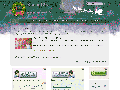
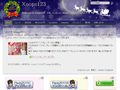
とりあえず２カラム版として完成

diff --git a/html/themes/x-mas/style.css b/html/themes/x-mas/style.css
@@ -105,7 +105,7 @@ h2 a 			{ text-decoration: none;}
 #header-pict h2 ,
 #header-pict h2 a ,
 #header h2 ,
-#header h2 a { font-family: 'Helvetica'; font-size: 18px; padding: 10px 0 0 160px ; color:#b3a1ac;
+#header h2 a { font-family: 'Helvetica'; font-size: 18px; padding: 10px 0 0 100px ; color:#b3a1ac;
 	text-shadow:
 		-1px -1px 1px rgba(0, 0, 0, 0.6),
 		1px 1px 1px rgba(255, 255, 255, 0.6);
@@ -196,7 +196,8 @@ z-index:1000;
 }
 
 /*#main-col div , #sidebar div {*/
-#main-col div h3 , #sidebar div h4 {
+#main-col h3 , #sidebar h3 ,
+#main-col h4 , #sidebar h4 {
 	padding-bottom:10px;
 }
 #sidebar div li {
@@ -212,22 +213,14 @@ z-index:1000;
 	width:100%;
 	max-width:960px;
 }
-#featured	div { 
-	padding: 20px;
-	margin-bottom:15px;
-	line-height: 1.5;
+#featured	h3 {
+	line-height:40px;
+	background:url(images/giftbox04-019.gif) no-repeat ;
+	padding-left:50px;
 }
+
 #latest	{ padding-bottom: 20px; }
-#about	{ padding: 20px 0 20px; }
-#about div {margin-bottom:15px;
-	padding:20px;
-	-webkit-box-shadow: 0px 3px 5px 0px rgba(0,0,0,0.3);
-	-moz-box-shadow: 0px 3px 5px 0px rgba(0,0,0,0.3);
-	box-shadow: 0px 3px 5px 0px rgba(0,0,0,0.3);
-	border-radius: 5px;
-	-webkit-border-radius: 5px;
-	-moz-border-radius: 5px;
-}
+#about {margin-bottom:15px;}
 
 .bg_pink, .bg_green, .bg_blue, .bg_orange ,	.bg_yellow	{
 	margin-bottom:15px;
@@ -255,6 +248,33 @@ z-index:1000;
 .bg_yellow	{
 	background:url(images/bg_yellow.png) ;
 }
+.bg_pink h3	{
+	background:url(images/giftbox03-011.gif) no-repeat ;
+	padding-left:50px;
+}
+.bg_green h3{
+	background:url(images/giftbox03-013.gif) no-repeat ;
+	padding-left:50px;
+}
+.bg_blue h3	{
+	background:url(images/giftbox03-015.gif) no-repeat ;
+	padding-left:50px;
+}
+.bg_orange h3	{
+	background:url(images/giftbox03-012.gif) no-repeat ;
+	padding-left:50px;
+}
+.bg_yellow h3	{
+	background:url(images/giftbox03-014.gif) no-repeat ;
+	padding-left:50px;
+}
+.bg_pink h4	,
+.bg_green h4 ,
+.bg_blue h4	,
+.bg_orange h4	,
+.bg_yellow h4	{
+}
+
 
 #menu_s {
 	text-align:center;
@@ -305,7 +325,7 @@ pre {overflow: auto; font-size: 12px; }
 	margin-left:250px;
 	height:30px;
 	width:202px;
-	z-index:100;
+	z-index:1003;
 }
 #headerSearch-searchform {
 	width: 200px;

diff --git a/html/themes/x-mas/modules.css b/html/themes/x-mas/modules.css
@@ -31,25 +31,28 @@ table.d3f_outer tr.odd {
 		-moz-linear-gradient(-45deg, transparent 75%, rgba(0, 0, 0, 0.05) 75%);
 }
 
-#d3f_post_form_quick table.d3f_postform {
-	width:90%;
-	margin-left: 2em;
+#pageComments {
+	margin-left:-20px;
 }
-#d3f_post_form_quick table.d3f_postform td.head,
-#d3f_post_form_quick table.d3f_postform td.even  {
+
+table.d3f_postform {
+	width:90%;
+}
+table.d3f_postform td.head,
+table.d3f_postform td.even  {
 	background:transparent;
 }
 
-#d3f_post_form_quick table.d3f_postform td.head {
+table.d3f_postform td.head {
 	width:70px;
 }
-#d3f_post_form_quick table.d3f_postform td.even  {
+table.d3f_postform td.even  {
 }
-#d3f_post_form_quick table.d3f_postform textarea , table.d3f_form_table textarea , table.d3f_form_table ,
-#d3f_post_form_quick table.d3f_postform input , table.d3f_form_table input#subject {
+table.d3f_postform textarea , table.d3f_form_table textarea , table.d3f_form_table ,
+table.d3f_postform input , table.d3f_form_table input#subject {
 	width:100%;
 }
-#d3f_post_form_quick table.d3f_postform input.formButton {
+table.d3f_postform input.formButton {
 	width:100px;
 }
 
@@ -499,3 +502,7 @@ body.wordpress .large_thumbnail{
 
 
 /* End Wordpress (XpressME) */
+
+#Modulecontents table ,
+#Modulecontents .d3downloads_outer , 
+#Modulecontents .d3downloads_single_frame_description {background:transparent;}

diff --git a/html/themes/x-mas/theme.html b/html/themes/x-mas/theme.html
@@ -38,7 +38,6 @@
 <link rel="stylesheet" href="<{$xoops_imageurl}>js/fancybox/jquery.fancybox-1.3.4.css" type="text/css" media="screen" charset="utf-8"/>
 <script type="text/javascript">
 jQuery(document).ready(function() {
-  jQuery("#d3f_post_form_quick_div").css("display","none");
 	jQuery("a.fancybox").fancybox({
 		'overlayColor': '#000',
 		'overlayOpacity': 0.3,
@@ -97,7 +96,7 @@ jQuery('input#headerSearch-keywords').blur(function(){
 });
 </script>
 </head>
-<body id="home" class="L<{$xoops_showlblock}>R<{$xoops_showrblock}> <{strip}>
+<body class="L<{$xoops_showlblock}>R<{$xoops_showrblock}> <{strip}>
 <{if $smarty.server.SCRIPT_FILENAME|basename == "index.php" and $smarty.server.SCRIPT_FILENAME|dirname|basename == $smarty.const.XOOPS_ROOT_PATH|basename}>
 	home
 <{else}>
